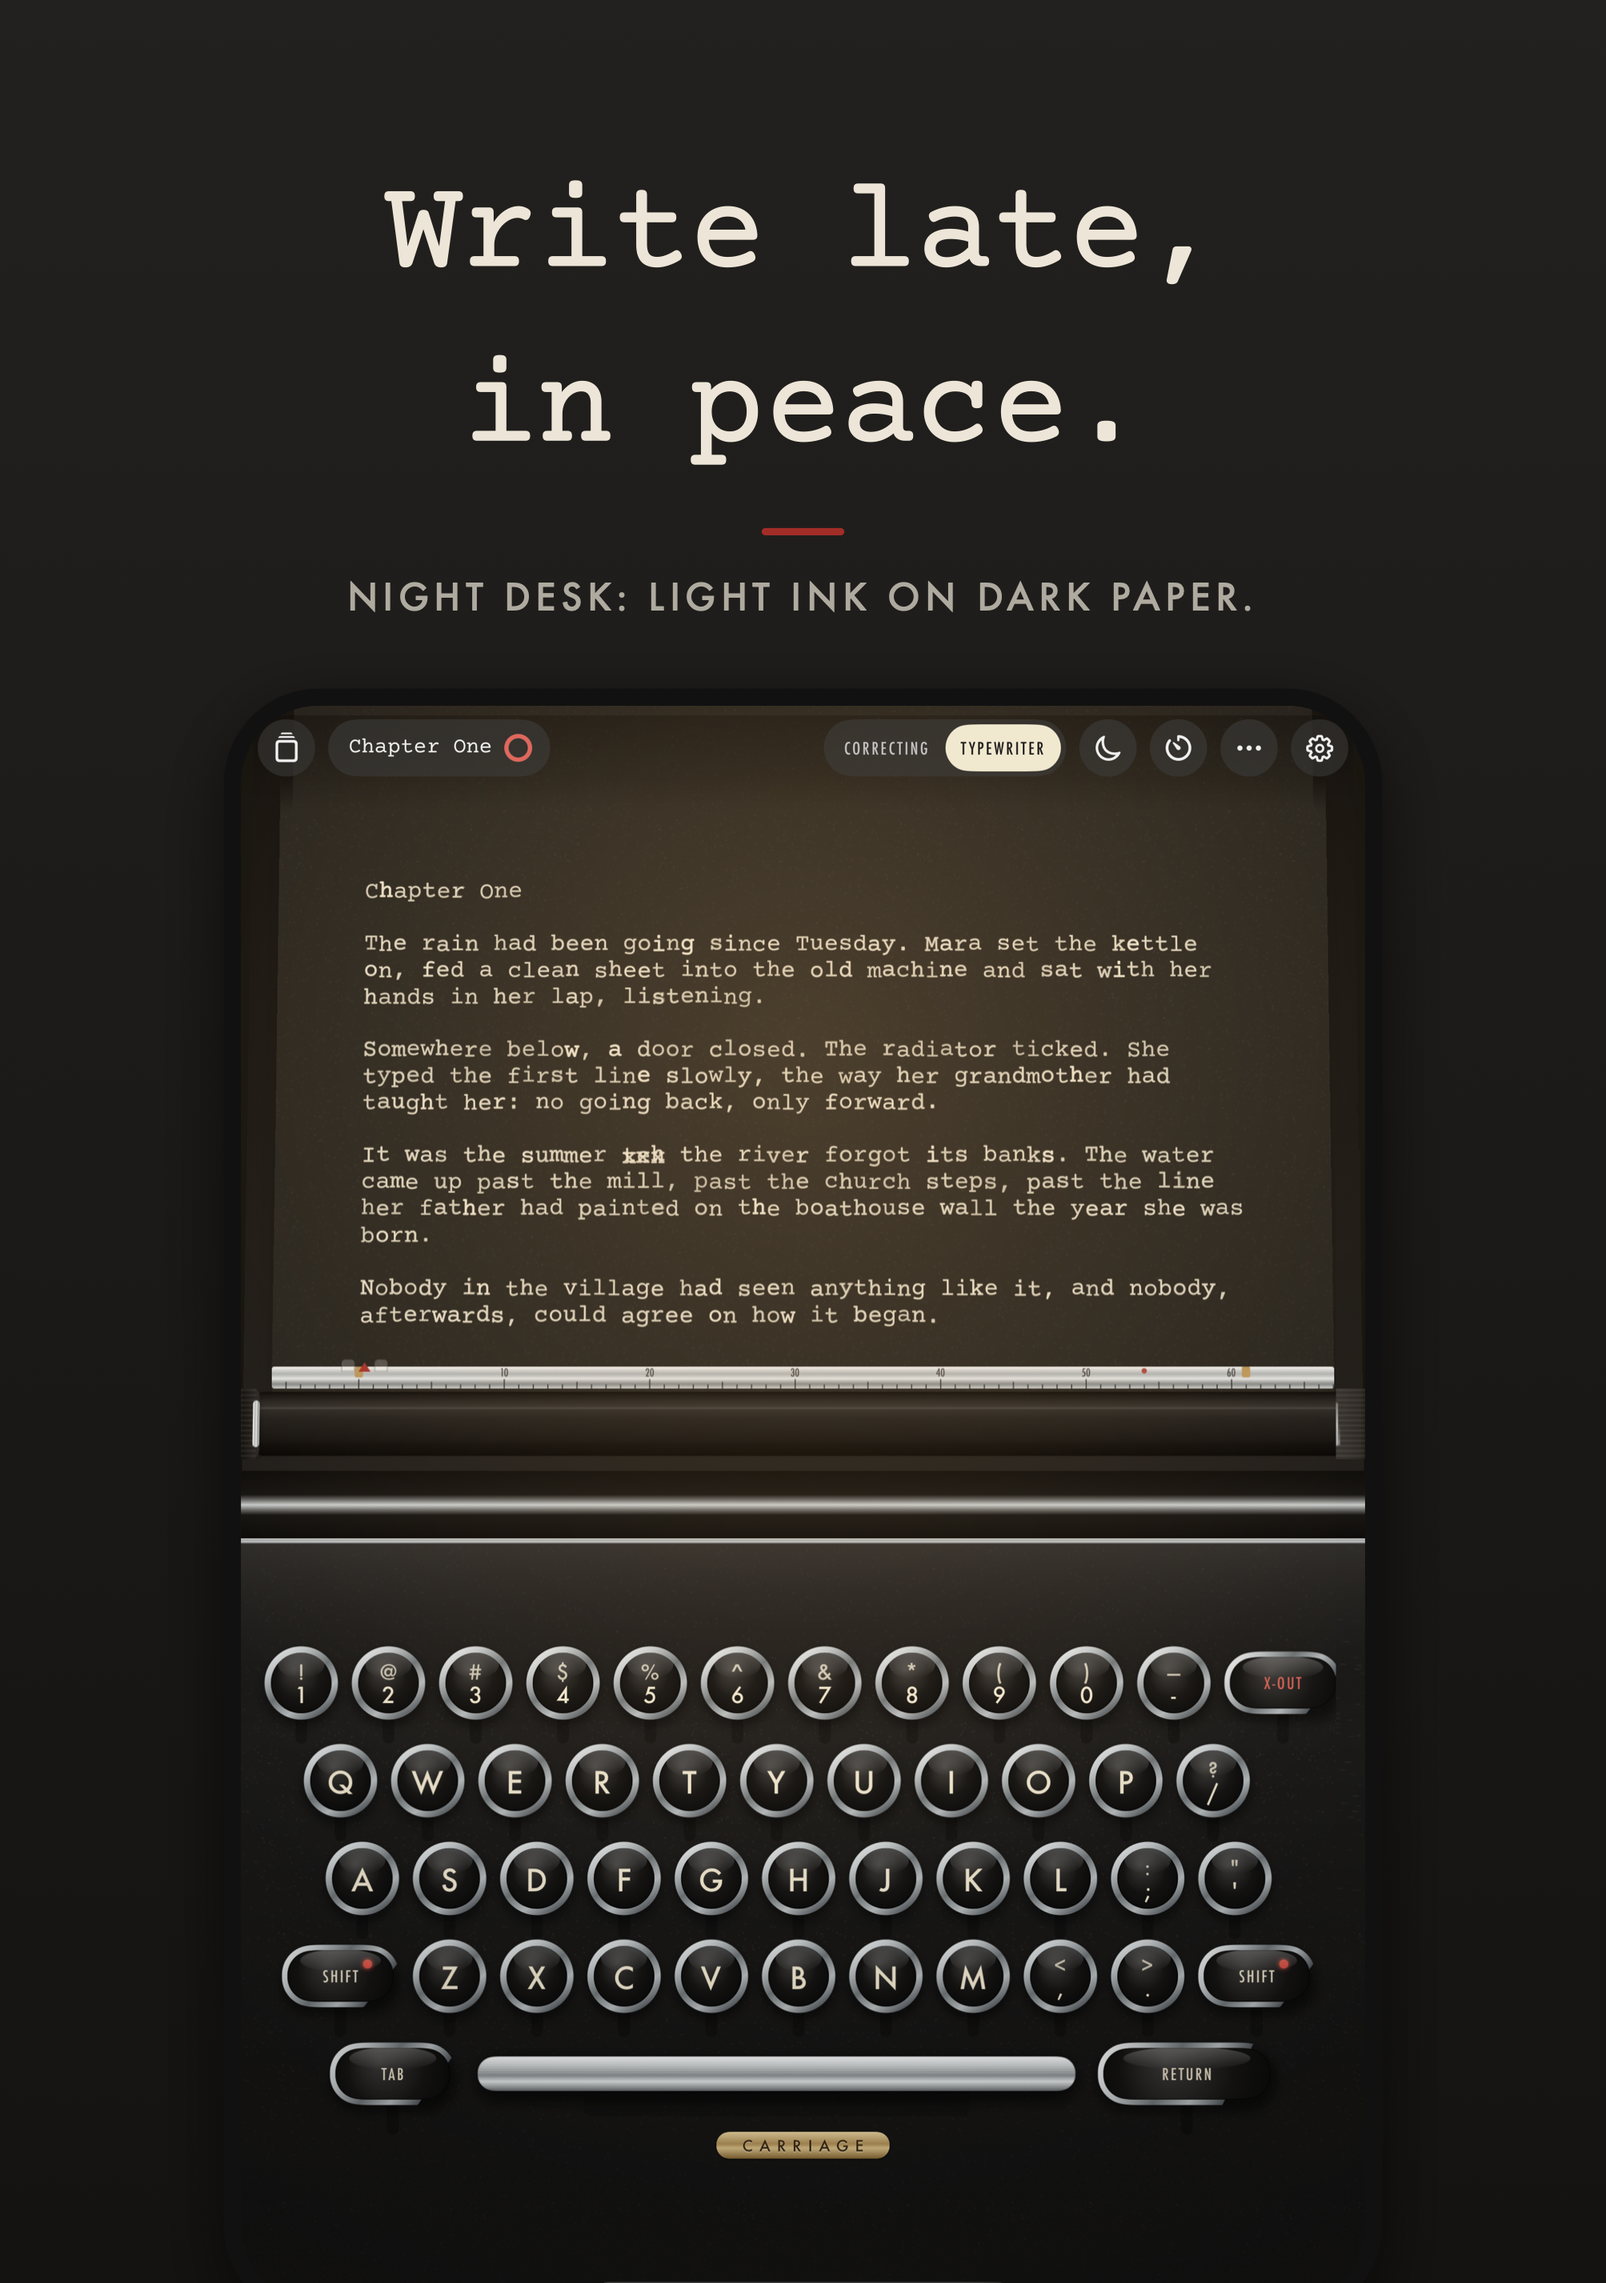
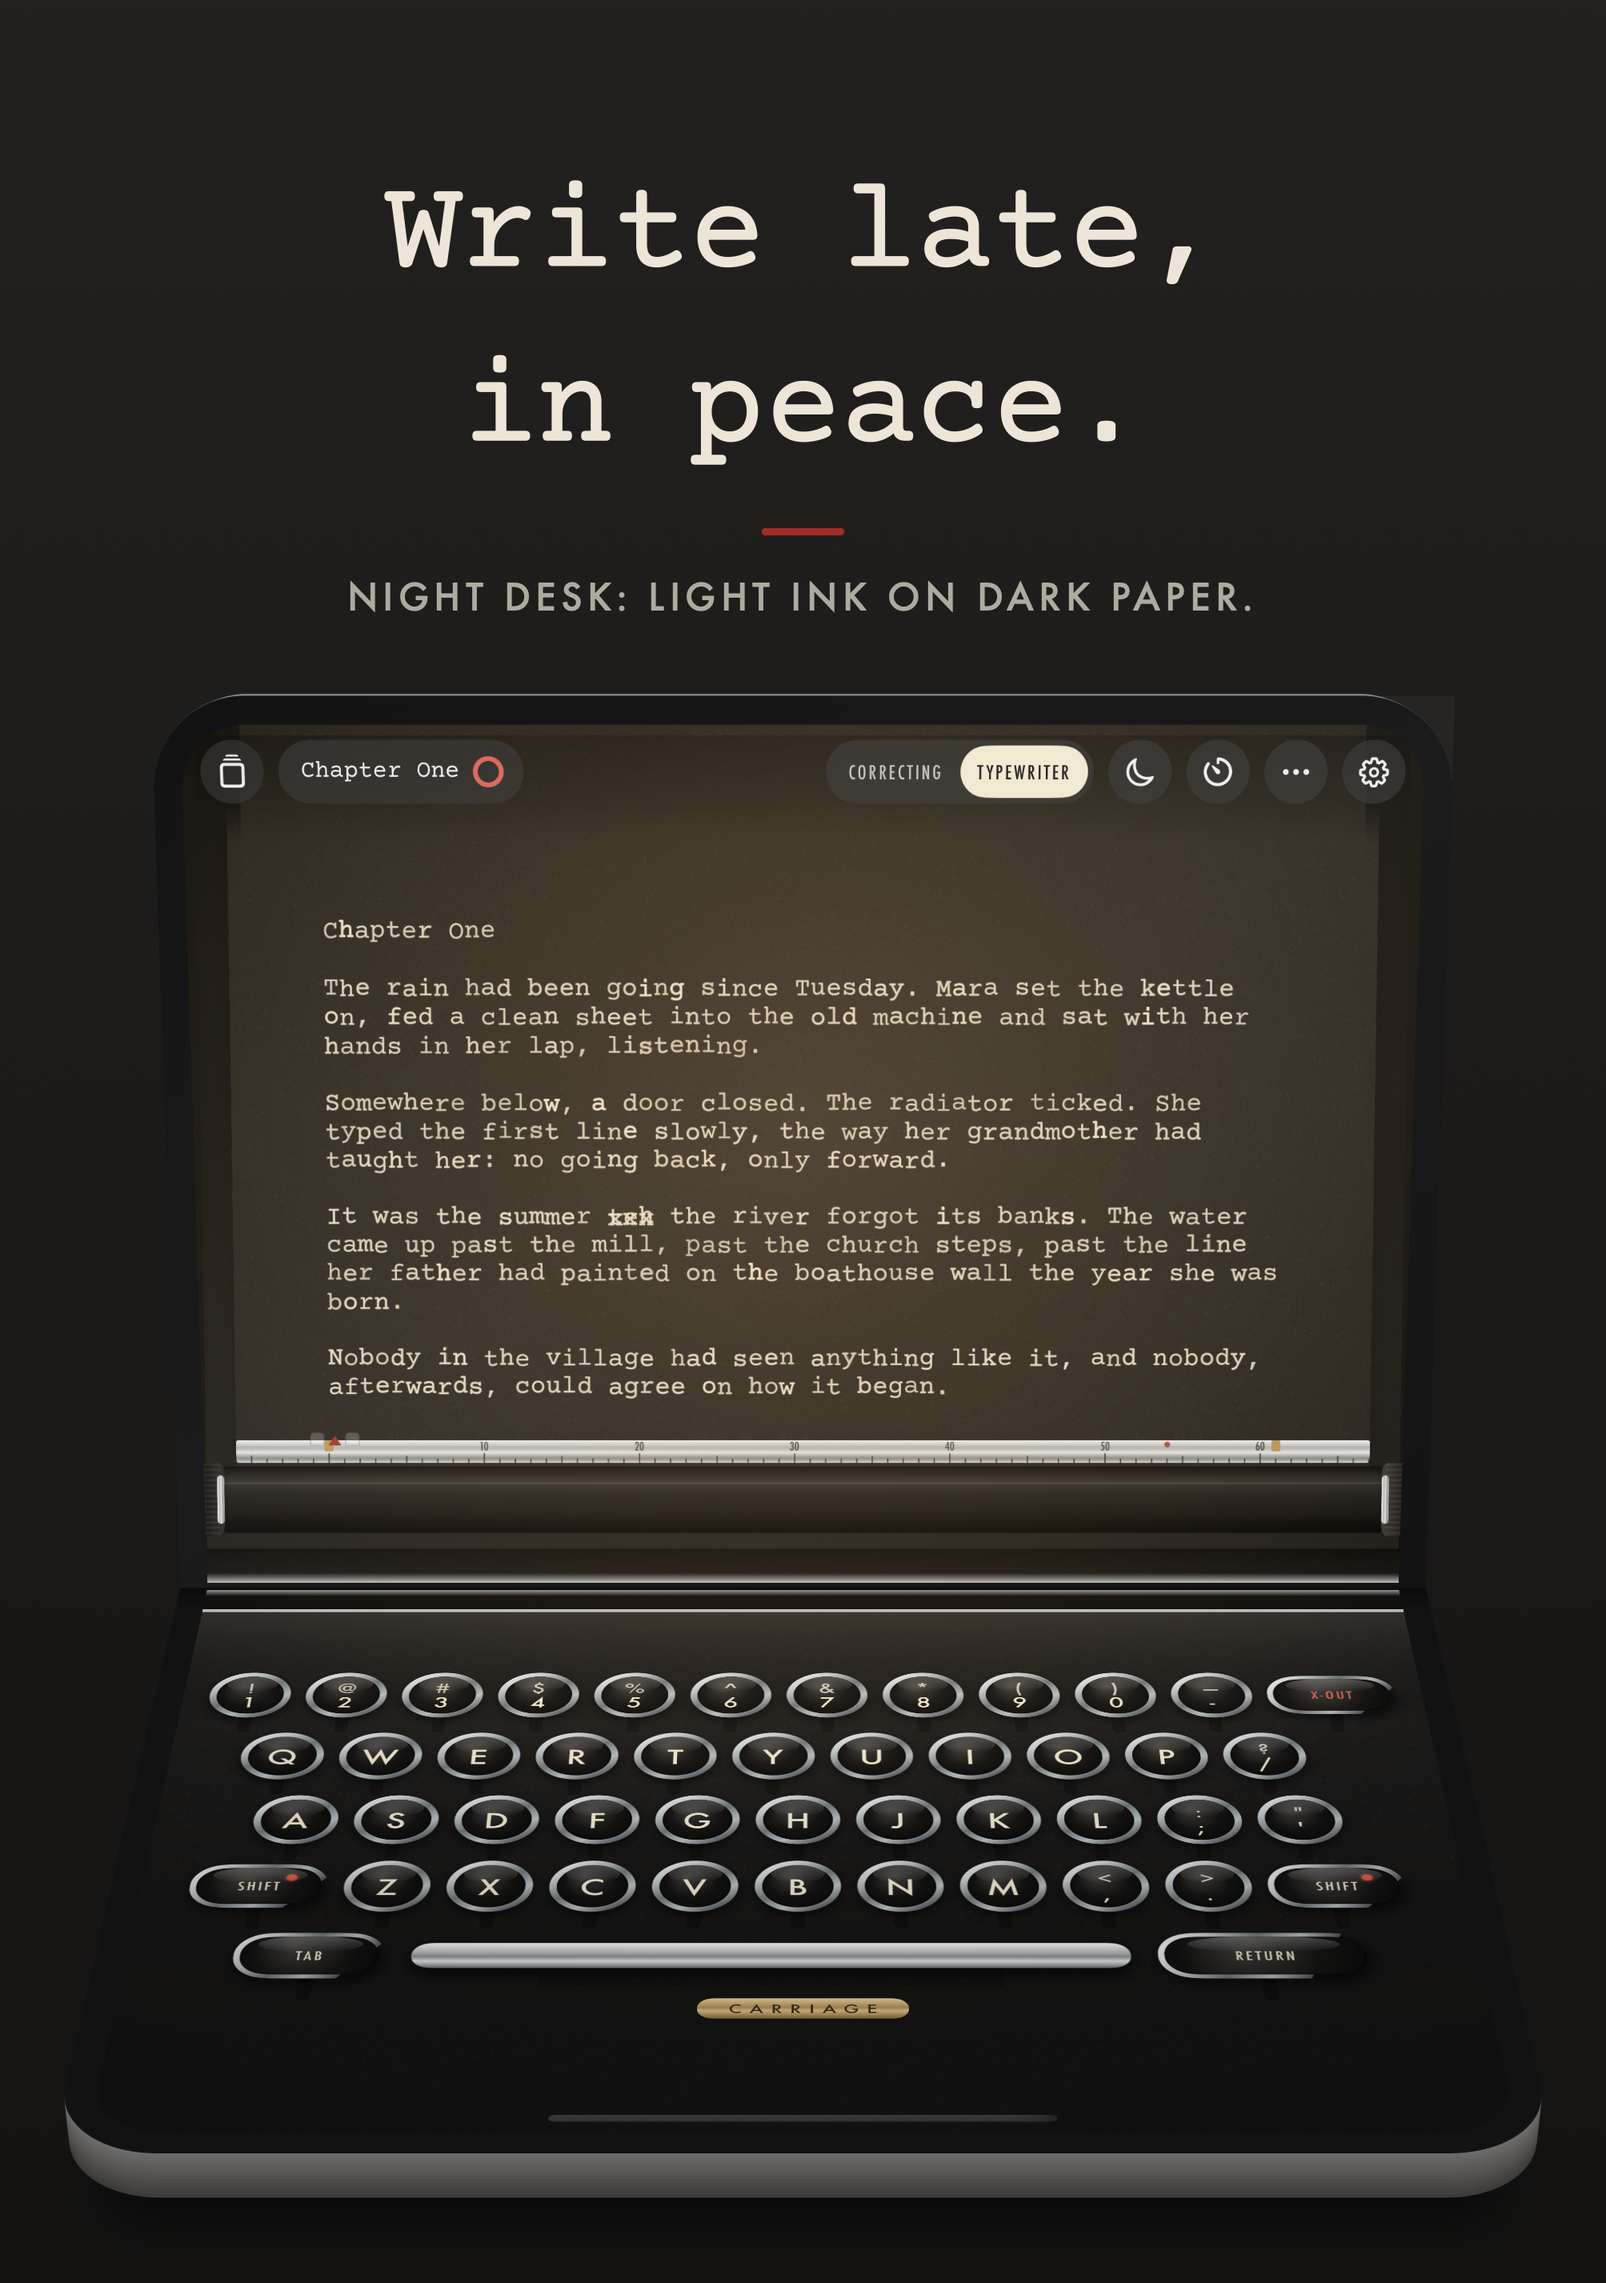
Show the Duo half-folded like a laptop in its App Store screenshots
The flat, face-on screen didn't say the phone folds. Each half is now drawn in
its bezel and bent into place with a perspective camera: the page standing up,
the keys lying on the desk, with rounded thickness and a soft shadow.

Changed region(s): [[0.0309, 0.2808, 0.9576, 0.9671], [0.3707, 0.9982, 0.6178, 1.0]]

diff --git a/scripts/StoreScreenshots.swift b/scripts/StoreScreenshots.swift
@@ -3,9 +3,12 @@
 //   swift scripts/StoreScreenshots.swift   (from the repo root)
 //
 // Reads docs/screenshots/iPhone-18-Pro-Max and writes store-6.9 and store-6.3; reads docs/screenshots/iPhone-Duo
-// (captured with -laptopPreview and turned upright) and writes store-duo.
+// (captured with -laptopPreview and turned upright) and writes store-duo, with the Duo drawn half-folded on the
+// desk like a little laptop, the way it's held to type.
 import AppKit
+import CoreImage
 import CoreText
+import simd
 
 struct Shot {
     var folder = "iPhone-18-Pro-Max"
@@ -80,15 +83,25 @@ func render(_ shot: Shot, size: CGSize, to url: URL) throws {
     ])
     line.draw(with: CGRect(x: 60 * scale, y: size.height - 520 * scale, width: size.width - 120 * scale, height: 50 * scale), options: [.usesLineFragmentOrigin])
 
-    // The screen, a little smaller than life, running off the bottom edge.
-    // The Duo's screen is wider for its height; keep the keys on the canvas.
-    let width = size.width * (duo ? 0.70 : 0.84)
+    if duo {
+        drawLaptop(screen, in: CGRect(x: 40 * scale, y: 70 * scale, width: size.width - 80 * scale, height: size.height - 640 * scale), night: shot.night)
+    } else {
+        drawPhone(screen, size: size, scale: scale, night: shot.night)
+    }
+
+    NSGraphicsContext.restoreGraphicsState()
+    try rep.representation(using: .png, properties: [:])!.write(to: url)
+}
+
+/// The screen, a little smaller than life, running off the bottom edge.
+func drawPhone(_ screen: NSImage, size: CGSize, scale: CGFloat, night: Bool) {
+    let width = size.width * 0.84
     let height = width * screen.size.height / screen.size.width
     let frame = CGRect(x: (size.width - width) / 2, y: size.height - 580 * scale - height, width: width, height: height)
     let corner = 64 * scale
     NSGraphicsContext.saveGraphicsState()
     let shadow = NSShadow()
-    shadow.shadowColor = NSColor.black.withAlphaComponent(shot.night ? 0.55 : 0.28)
+    shadow.shadowColor = NSColor.black.withAlphaComponent(night ? 0.55 : 0.28)
     shadow.shadowBlurRadius = 60 * scale
     shadow.shadowOffset = NSSize(width: 0, height: -18 * scale)
     shadow.set()
@@ -98,18 +111,134 @@ func render(_ shot: Shot, size: CGSize, to url: URL) throws {
     NSGraphicsContext.saveGraphicsState()
     NSBezierPath(roundedRect: frame, xRadius: corner, yRadius: corner).addClip()
     screen.draw(in: frame)
-    if duo {
-        // The quarter-turned capture shows the home indicator as a sliver down the right edge, between the
-        // keys and the screen's edge; cover it with the plain desk just beside it.
-        let px = screen.size.width / frame.width
-        let source = CGRect(x: screen.size.width - 22, y: screen.size.height * 0.25, width: 12, height: screen.size.height * 0.5)
-        let target = CGRect(x: frame.maxX - 52 / px, y: frame.minY + frame.height * 0.25, width: 44 / px, height: frame.height * 0.5)
-        screen.draw(in: target, from: source, operation: .copy, fraction: 1)
+    NSGraphicsContext.restoreGraphicsState()
+}
+
+// MARK: The Duo, half-folded
+
+/// The Duo as it's really used: half-folded on the desk like a little laptop, the page standing up on the top half
+/// and the keys lying flat on the bottom half, seen from in front and a little above. Fills `area` as wide as fits,
+/// resting on its bottom edge.
+func drawLaptop(_ screen: NSImage, in area: CGRect, night: Bool) {
+    guard let cg = screen.cgImage(forProposedRect: nil, context: nil, hints: nil) else { return }
+    let w = CGFloat(cg.width), fold = CGFloat(cg.height / 2)
+    let bezel: CGFloat = 46, hinge: CGFloat = 8
+    let halfSize = CGSize(width: w + 2 * bezel, height: fold + bezel + hinge)
+    let space = CGColorSpace(name: CGColorSpace.sRGB)!
+
+    // Each half drawn flat in its bezel, rounded only at its outer corners.
+    func half(top: Bool) -> CIImage {
+        let ctx = CGContext(data: nil, width: Int(halfSize.width), height: Int(halfSize.height), bitsPerComponent: 8, bytesPerRow: 0, space: space, bitmapInfo: CGImageAlphaInfo.premultipliedLast.rawValue)!
+        let bounds = CGRect(origin: .zero, size: halfSize)
+        // Rounded rects that run past the hinge edge, so only the outer corners show round.
+        let outer = top ? CGRect(x: 0, y: -200, width: halfSize.width, height: halfSize.height + 200) : CGRect(x: 0, y: 0, width: halfSize.width, height: halfSize.height + 200)
+        ctx.addPath(CGPath(roundedRect: outer, cornerWidth: 150, cornerHeight: 150, transform: nil))
+        ctx.clip()
+        ctx.setFillColor(CGColor(srgbRed: 0.07, green: 0.07, blue: 0.075, alpha: 1))
+        ctx.fill(bounds)
+        let glass = CGRect(x: bezel, y: top ? hinge : bezel, width: w, height: fold)
+        let corners = top ? CGRect(x: glass.minX, y: glass.minY - 200, width: w, height: fold + 200) : CGRect(x: glass.minX, y: glass.minY, width: w, height: fold + 200)
+        ctx.addPath(CGPath(roundedRect: corners, cornerWidth: 104, cornerHeight: 104, transform: nil))
+        ctx.clip()
+        let part = cg.cropping(to: CGRect(x: 0, y: top ? 0 : Int(fold), width: Int(w), height: Int(fold)))!
+        ctx.draw(part, in: glass)
+        return CIImage(cgImage: ctx.makeImage()!)
     }
+
+    // The device in the world, in screen pixels: the hinge along x, the keys flat towards the camera (+z), the page
+    // opened back to 108 degrees.
+    let halfW = Double(halfSize.width) / 2, depth = Double(halfSize.height), thick = 80.0
+    let open = 108.0 * .pi / 180
+    let up = SIMD3(0, sin(.pi - open), -cos(.pi - open))
+    let back = SIMD3(0, cos(.pi - open), sin(.pi - open)) * -1
+    let eye = SIMD3(0.0, 3900, 6200), target = SIMD3(0.0, 420, 380)
+    let forward = simd_normalize(target - eye)
+    let right = simd_normalize(simd_cross(forward, SIMD3(0, 1, 0)))
+    let camUp = simd_cross(right, forward)
+    func project(_ p: SIMD3<Double>) -> CGPoint {
+        let d = p - eye
+        let z = simd_dot(d, forward)
+        return CGPoint(x: simd_dot(d, right) / z, y: simd_dot(d, camUp) / z)
+    }
+    let pageHinge = [SIMD3(-halfW, 0, 0), SIMD3(halfW, 0, 0)]
+    let pageTop = pageHinge.map { $0 + up * depth }
+    let keysNear = pageHinge.map { $0 + SIMD3(0, 0, depth) }
+    let keysUnder = keysNear.map { $0 + SIMD3(0, -thick, 0) }
+    let pageBack = pageTop.map { $0 + back * thick }
+
+    // Fit everything into the area: as wide as allowed, centred, resting on the bottom.
+    let raw = (pageTop + pageBack + keysUnder + keysNear + pageHinge).map(project)
+    let minX = raw.map(\.x).min()!, maxX = raw.map(\.x).max()!, minY = raw.map(\.y).min()!, maxY = raw.map(\.y).max()!
+    let fit = min(area.width / (maxX - minX), area.height / (maxY - minY))
+    let ox = area.midX - (minX + maxX) / 2 * fit, oy = area.minY - minY * fit
+    func place(_ p: SIMD3<Double>) -> CGPoint {
+        let q = project(p)
+        return CGPoint(x: ox + q.x * fit, y: oy + q.y * fit)
+    }
+    func quad(_ points: [SIMD3<Double>]) -> NSBezierPath {
+        let path = NSBezierPath()
+        path.move(to: place(points[0]))
+        for p in points.dropFirst() { path.line(to: place(p)) }
+        path.close()
+        return path
+    }
+
+    // Its shadow on the desk.
+    NSGraphicsContext.saveGraphicsState()
+    let shadow = NSShadow()
+    shadow.shadowColor = NSColor.black.withAlphaComponent(night ? 0.7 : 0.38)
+    shadow.shadowBlurRadius = 90
+    // Cast from a shape drawn off the canvas, so only the soft shadow lands.
+    let away: CGFloat = 20_000
+    shadow.shadowOffset = NSSize(width: away, height: -36)
+    shadow.set()
+    let footprint = quad([keysUnder[0] + SIMD3(60, 0, -20), keysUnder[1] + SIMD3(-60, 0, -20), pageHinge[1] + SIMD3(-60, -thick, -40), pageHinge[0] + SIMD3(60, -thick, -40)])
+    footprint.transform(using: AffineTransform(translationByX: -away, byY: 0))
+    NSColor.black.setFill()
+    footprint.fill()
     NSGraphicsContext.restoreGraphicsState()
 
+    // Each half's glass bent into place, over its own body stacked behind it, so the device's thickness follows
+    // its rounded corners: the keys half shows its front edge, the page half its top edge.
+    let ci = CIContext(options: [.workingColorSpace: space, .outputColorSpace: space])
+    let canvas = NSGraphicsContext.current!.cgContext
+    func warp(_ image: CIImage, _ tl: SIMD3<Double>, _ tr: SIMD3<Double>, _ bl: SIMD3<Double>, _ br: SIMD3<Double>) {
+        let out = CIFilter(name: "CIPerspectiveTransform", parameters: [
+            kCIInputImageKey: image,
+            "inputTopLeft": CIVector(cgPoint: place(tl)), "inputTopRight": CIVector(cgPoint: place(tr)),
+            "inputBottomLeft": CIVector(cgPoint: place(bl)), "inputBottomRight": CIVector(cgPoint: place(br)),
+        ])!.outputImage!
+        let extent = out.extent.integral
+        canvas.draw(ci.createCGImage(out, from: extent)!, in: extent)
+    }
+    func body(_ image: CIImage, shade: CGFloat) -> CIImage {
+        CIImage(color: CIColor(red: shade, green: shade * 0.98, blue: shade * 0.96)).cropped(to: image.extent)
+            .applyingFilter("CISourceInCompositing", parameters: [kCIInputBackgroundImageKey: image])
+    }
+    let keys = half(top: false), page = half(top: true)
+    let steps = 12
+    for i in stride(from: steps, through: 1, by: -1) {
+        let down = SIMD3(0, -thick * Double(i) / Double(steps), 0)
+        warp(body(keys, shade: 0.24 + 0.2 * CGFloat(steps - i) / CGFloat(steps)), pageHinge[0] + down, pageHinge[1] + down, keysNear[0] + down, keysNear[1] + down)
+    }
+    warp(keys, pageHinge[0], pageHinge[1], keysNear[0], keysNear[1])
+    for i in stride(from: steps, through: 1, by: -1) {
+        let away = back * thick * Double(i) / Double(steps)
+        warp(body(page, shade: 0.4 + 0.25 * CGFloat(steps - i) / CGFloat(steps)), pageTop[0] + away, pageTop[1] + away, pageHinge[0] + away, pageHinge[1] + away)
+    }
+    warp(page, pageTop[0], pageTop[1], pageHinge[0], pageHinge[1])
+
+    // A little light across the standing glass, and the hinge's shadow where the halves meet.
+    NSGraphicsContext.saveGraphicsState()
+    quad([pageTop[0], pageTop[1], pageHinge[1], pageHinge[0]]).addClip()
+    NSGradient(colors: [NSColor.white.withAlphaComponent(0.0), NSColor.white.withAlphaComponent(night ? 0.04 : 0.07), NSColor.white.withAlphaComponent(0.0)])!
+        .draw(in: quad([pageTop[0], pageTop[1], pageHinge[1], pageHinge[0]]).bounds, angle: -60)
     NSGraphicsContext.restoreGraphicsState()
-    try rep.representation(using: .png, properties: [:])!.write(to: url)
+    NSGraphicsContext.saveGraphicsState()
+    quad([pageHinge[0], pageHinge[1], pageHinge[1] + SIMD3(0, 0, 70), pageHinge[0] + SIMD3(0, 0, 70)]).addClip()
+    let band = quad([pageHinge[0], pageHinge[1], pageHinge[1] + SIMD3(0, 0, 70), pageHinge[0] + SIMD3(0, 0, 70)]).bounds
+    NSGradient(starting: NSColor.black.withAlphaComponent(0.35), ending: NSColor.black.withAlphaComponent(0))!.draw(in: band, angle: -90)
+    NSGraphicsContext.restoreGraphicsState()
 }
 
 for (folder, size, set) in [("store-6.9", CGSize(width: 1320, height: 2868), shots), ("store-6.3", CGSize(width: 1206, height: 2622), shots), ("store-duo", CGSize(width: 2007, height: 2853), duoShots)] {
